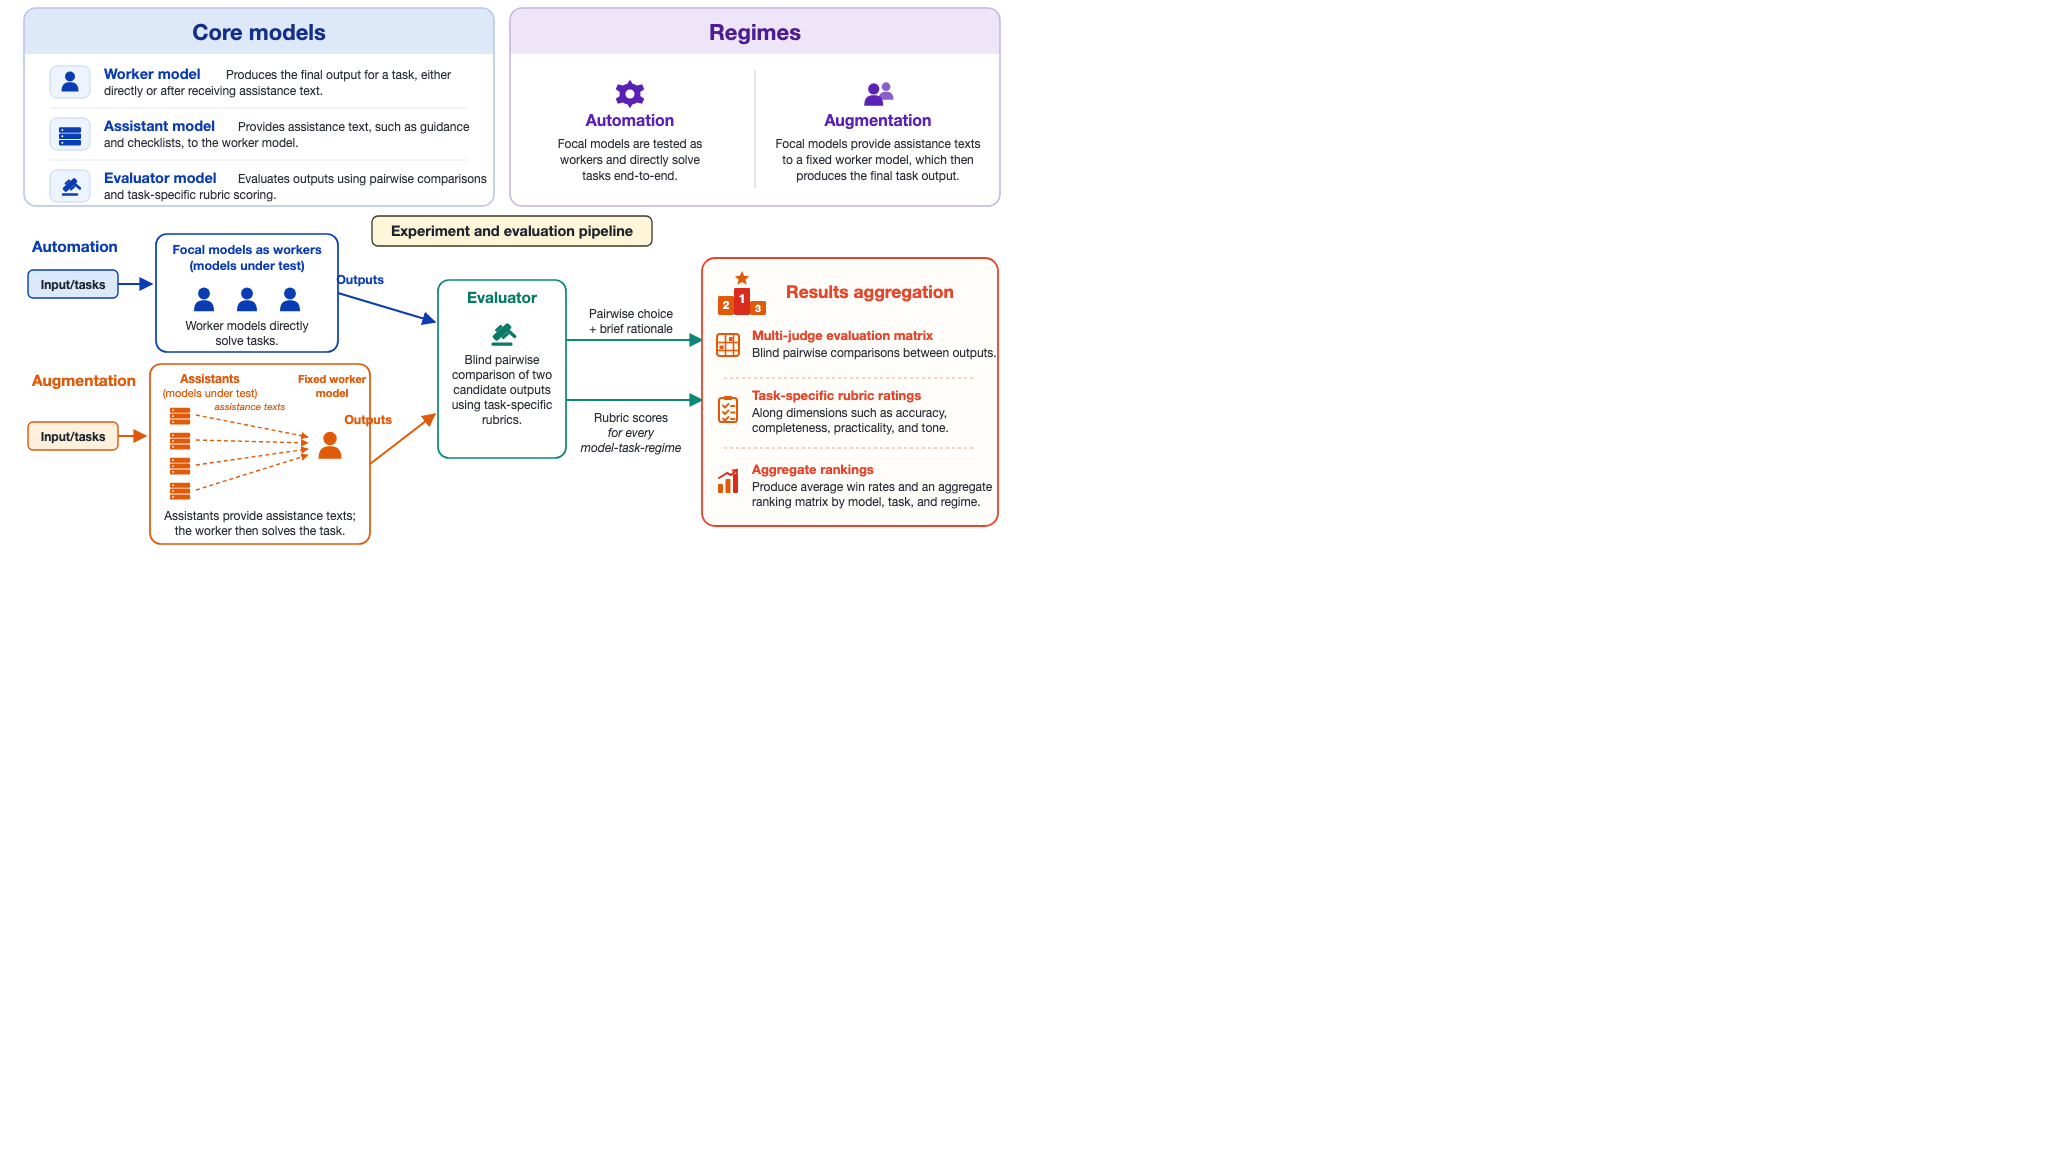
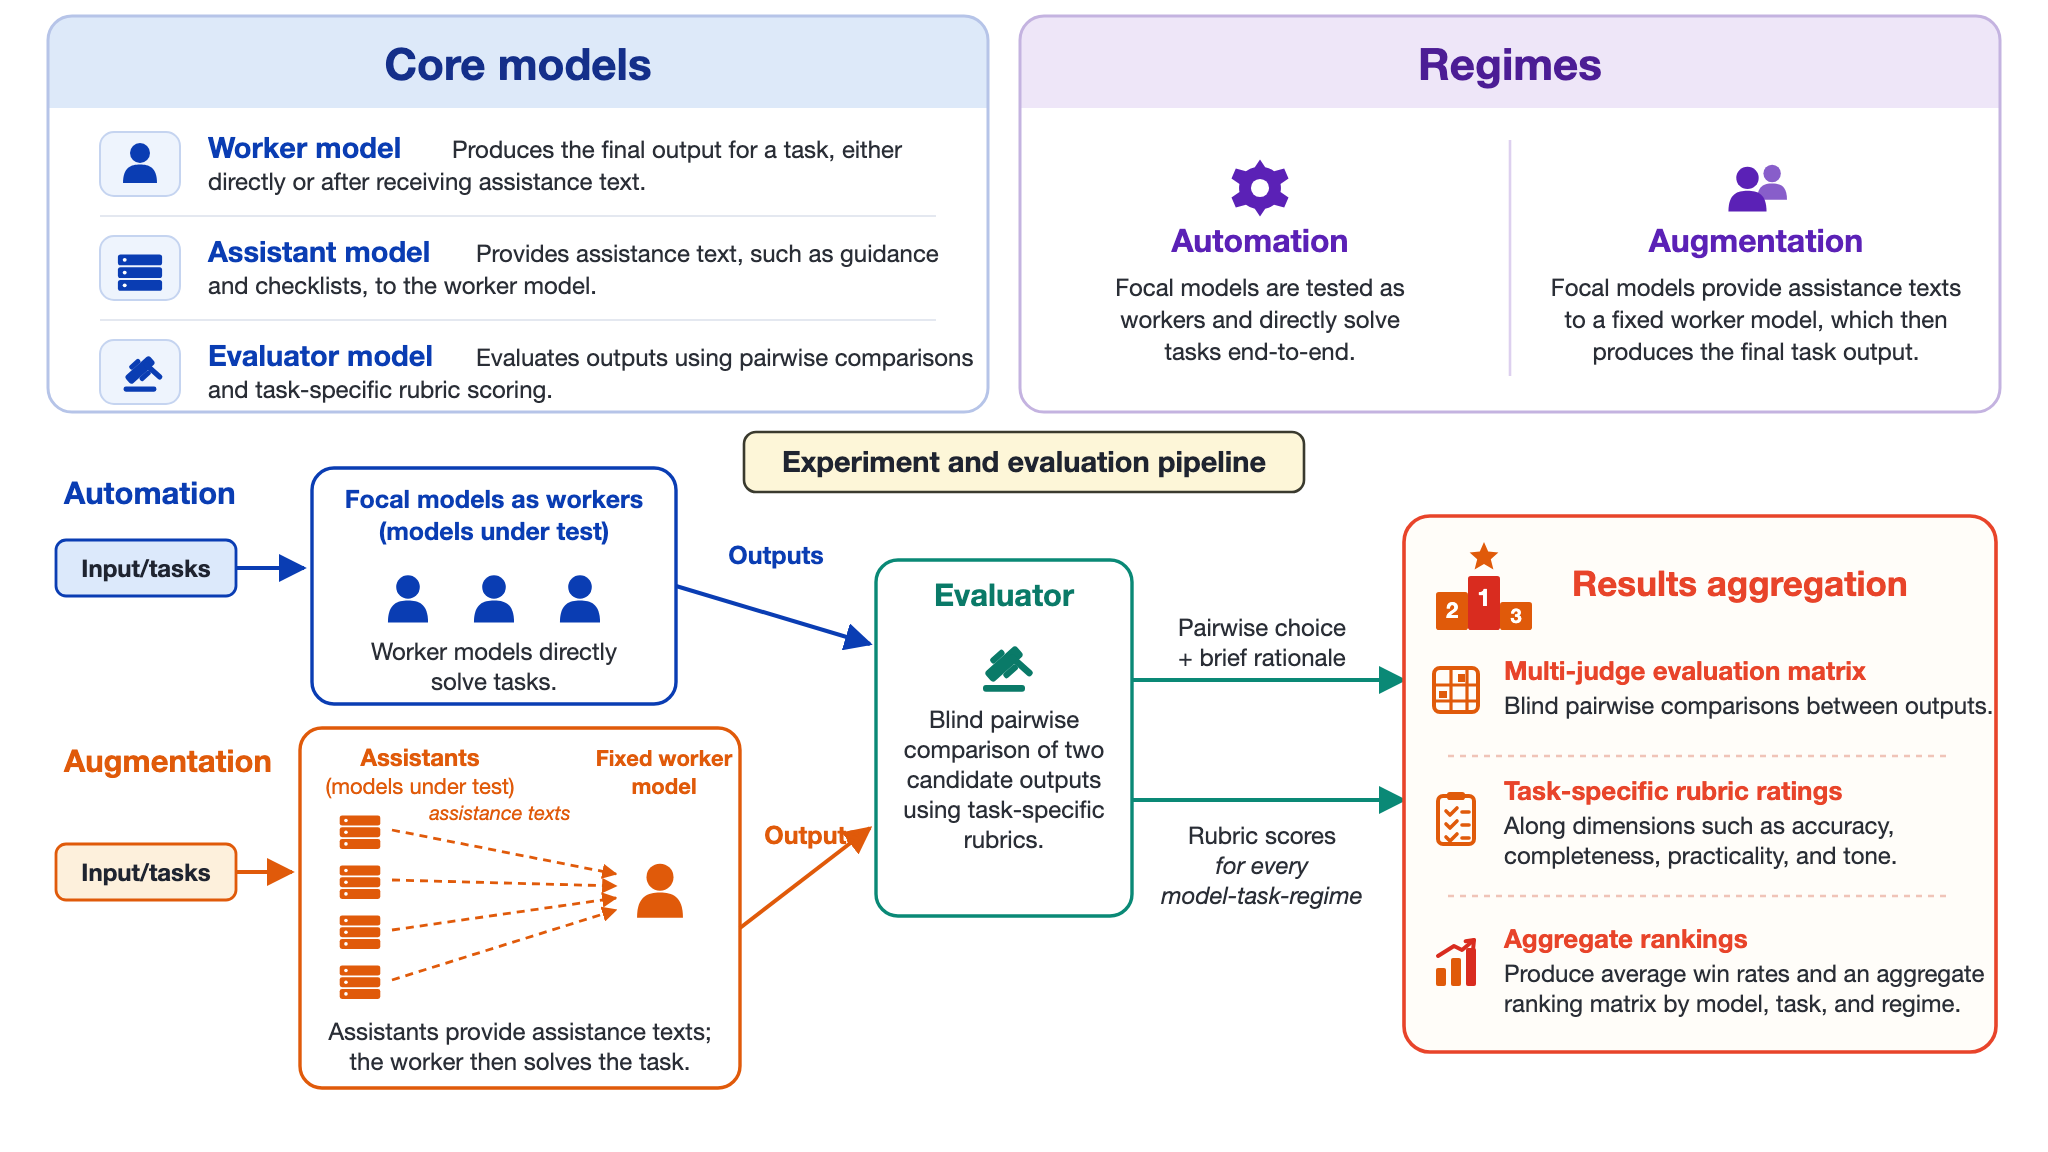
Nudge Outputs labels into methodology pipeline arrow gaps.
Prior fix overshot left into the regime card borders; recenter both
labels between each card's right edge and the Evaluator.

diff --git a/dashboard/index.html b/dashboard/index.html
@@ -152,7 +152,7 @@
               <p><b>Automation:</b> the model finishes the task itself. <b>Augmentation:</b> the model writes assistance text for a fixed GPT-3.5-Turbo worker. Blind pairwise judges score the deliverables.</p>
             </div>
             <figure class="method-figure">
-              <img src="assets/methodology-pipeline.svg?v=20260717f" alt="Experiment and evaluation pipeline: automation vs augmentation paths, blind pairwise evaluation, and aggregate rankings" loading="lazy" />
+              <img src="assets/methodology-pipeline.svg?v=20260717g" alt="Experiment and evaluation pipeline: automation vs augmentation paths, blind pairwise evaluation, and aggregate rankings" loading="lazy" />
               <figcaption>Models are tested in automation (solve the task end-to-end) or augmentation (provide assistance text to a fixed worker). Outputs are compared blind with task rubrics, then aggregated into rankings by task and regime.</figcaption>
             </figure>
           </div>
